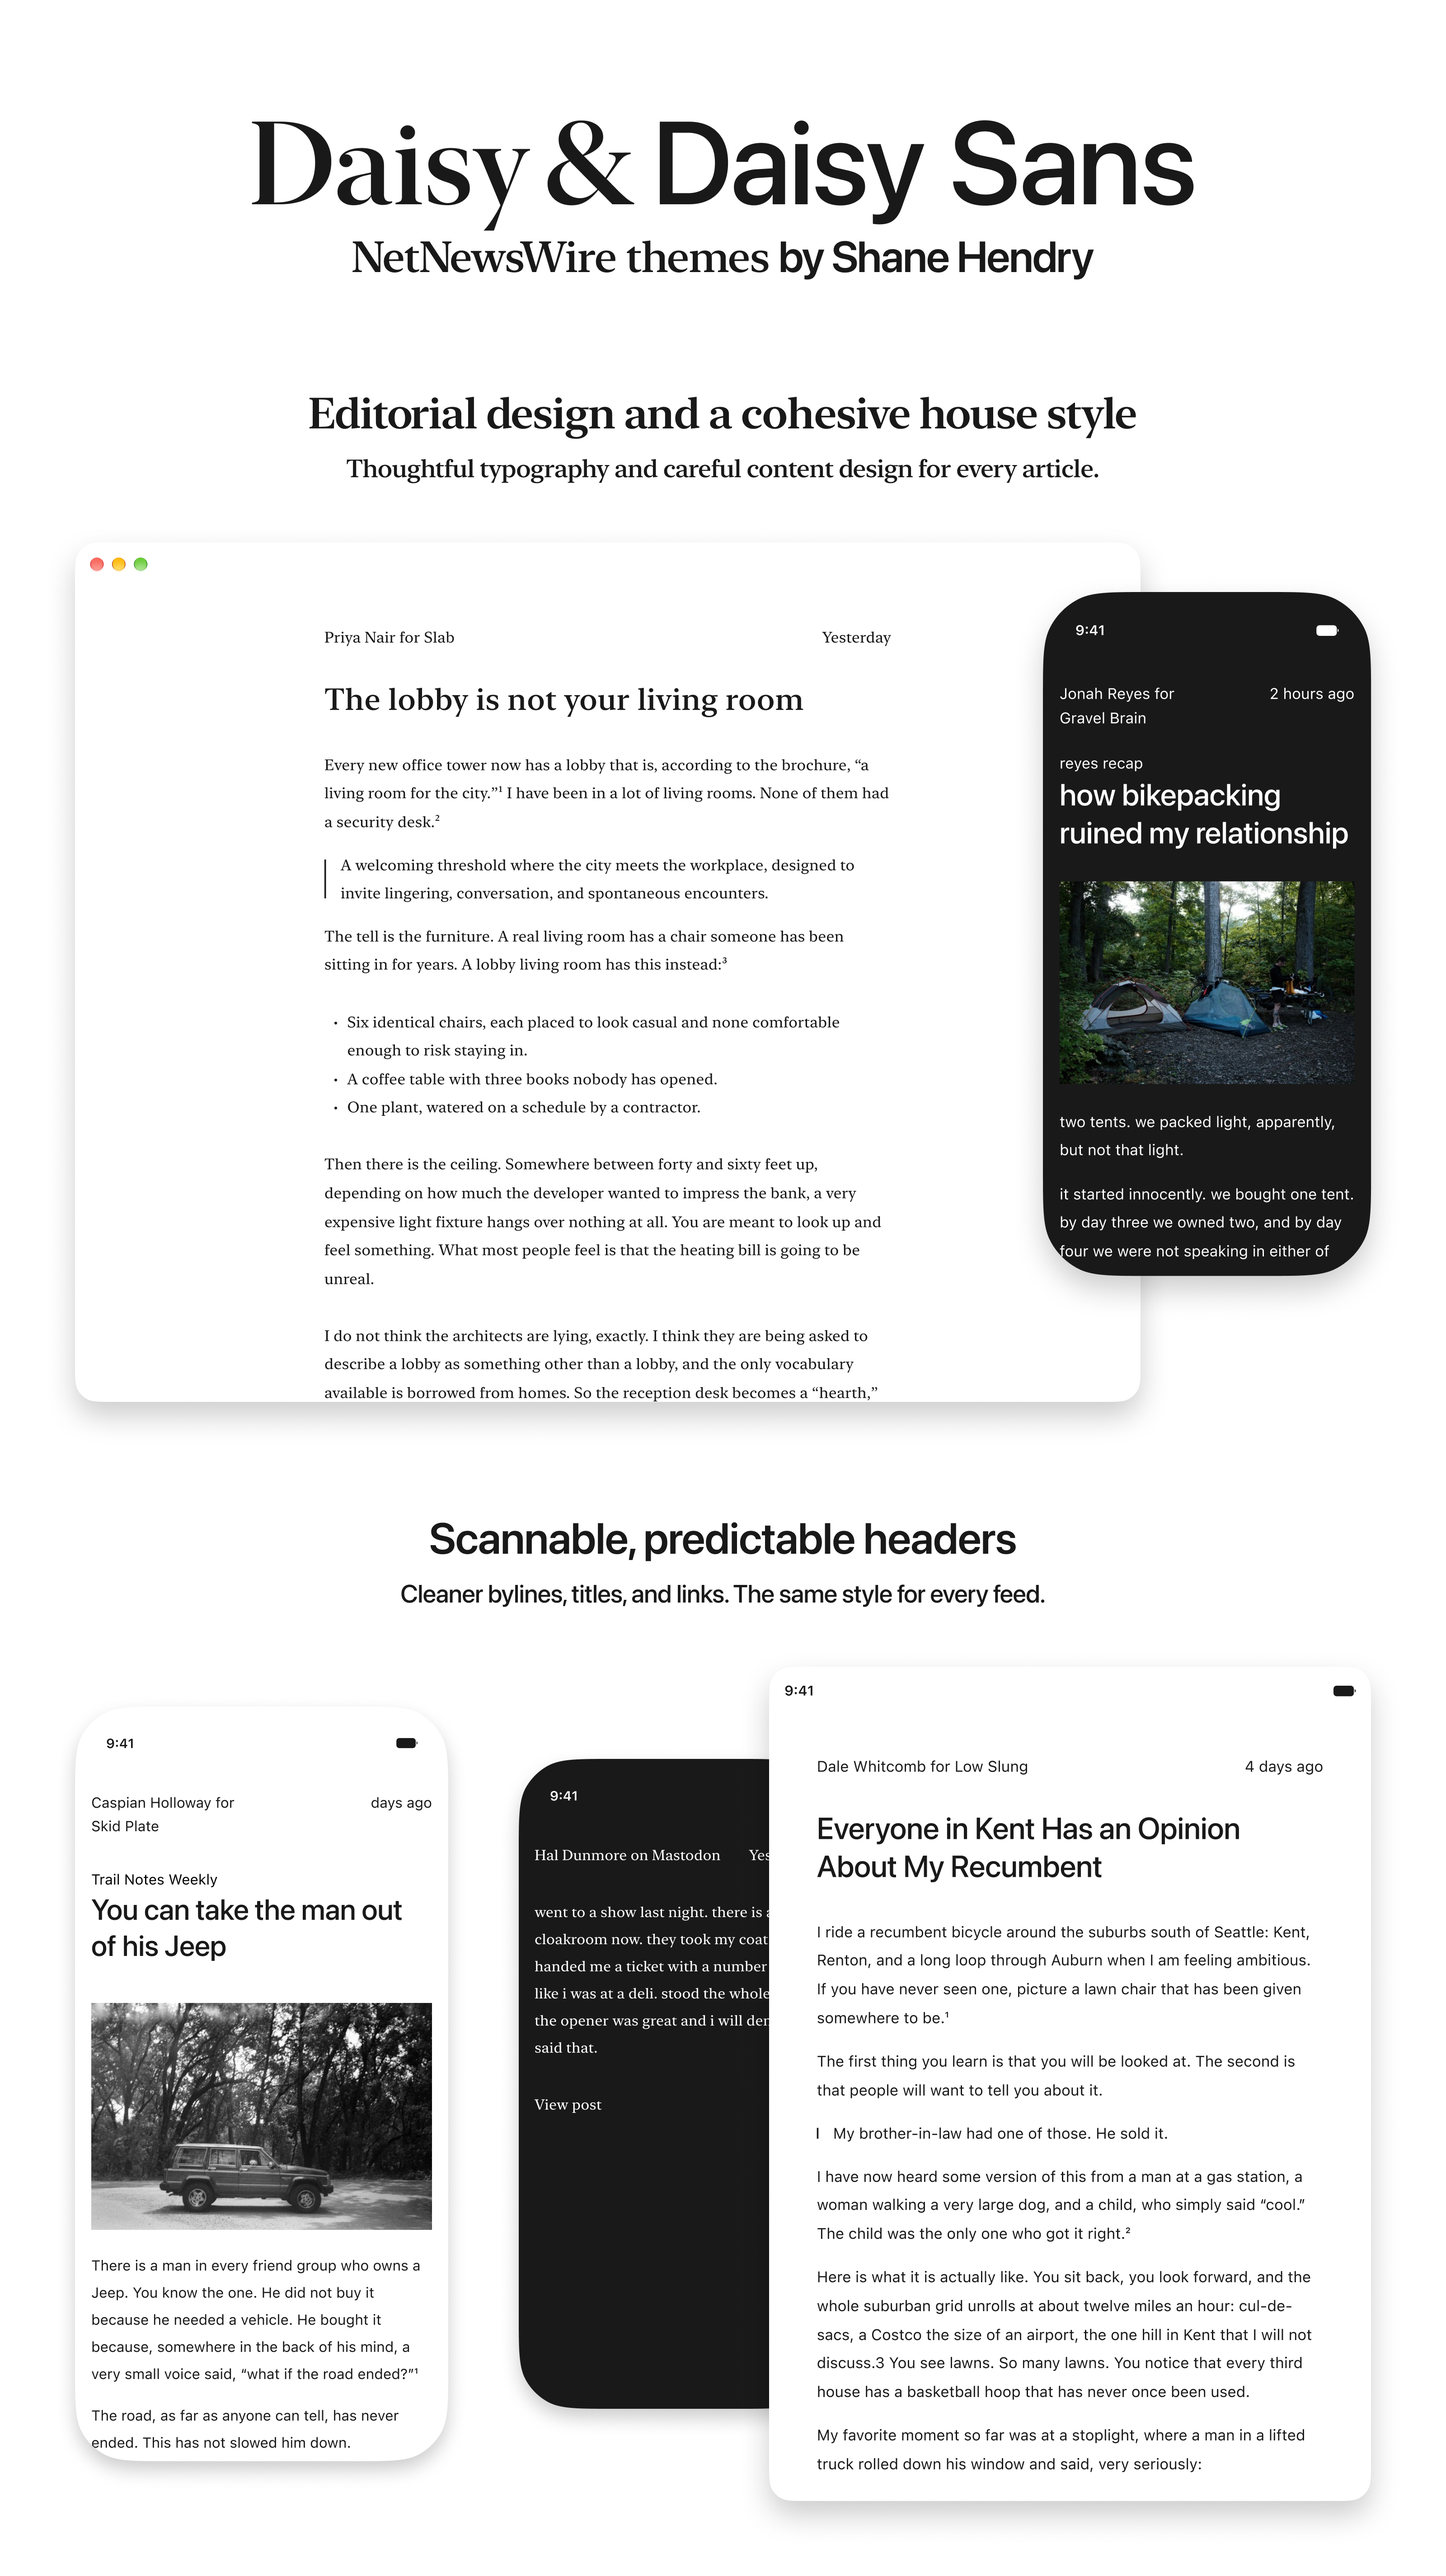
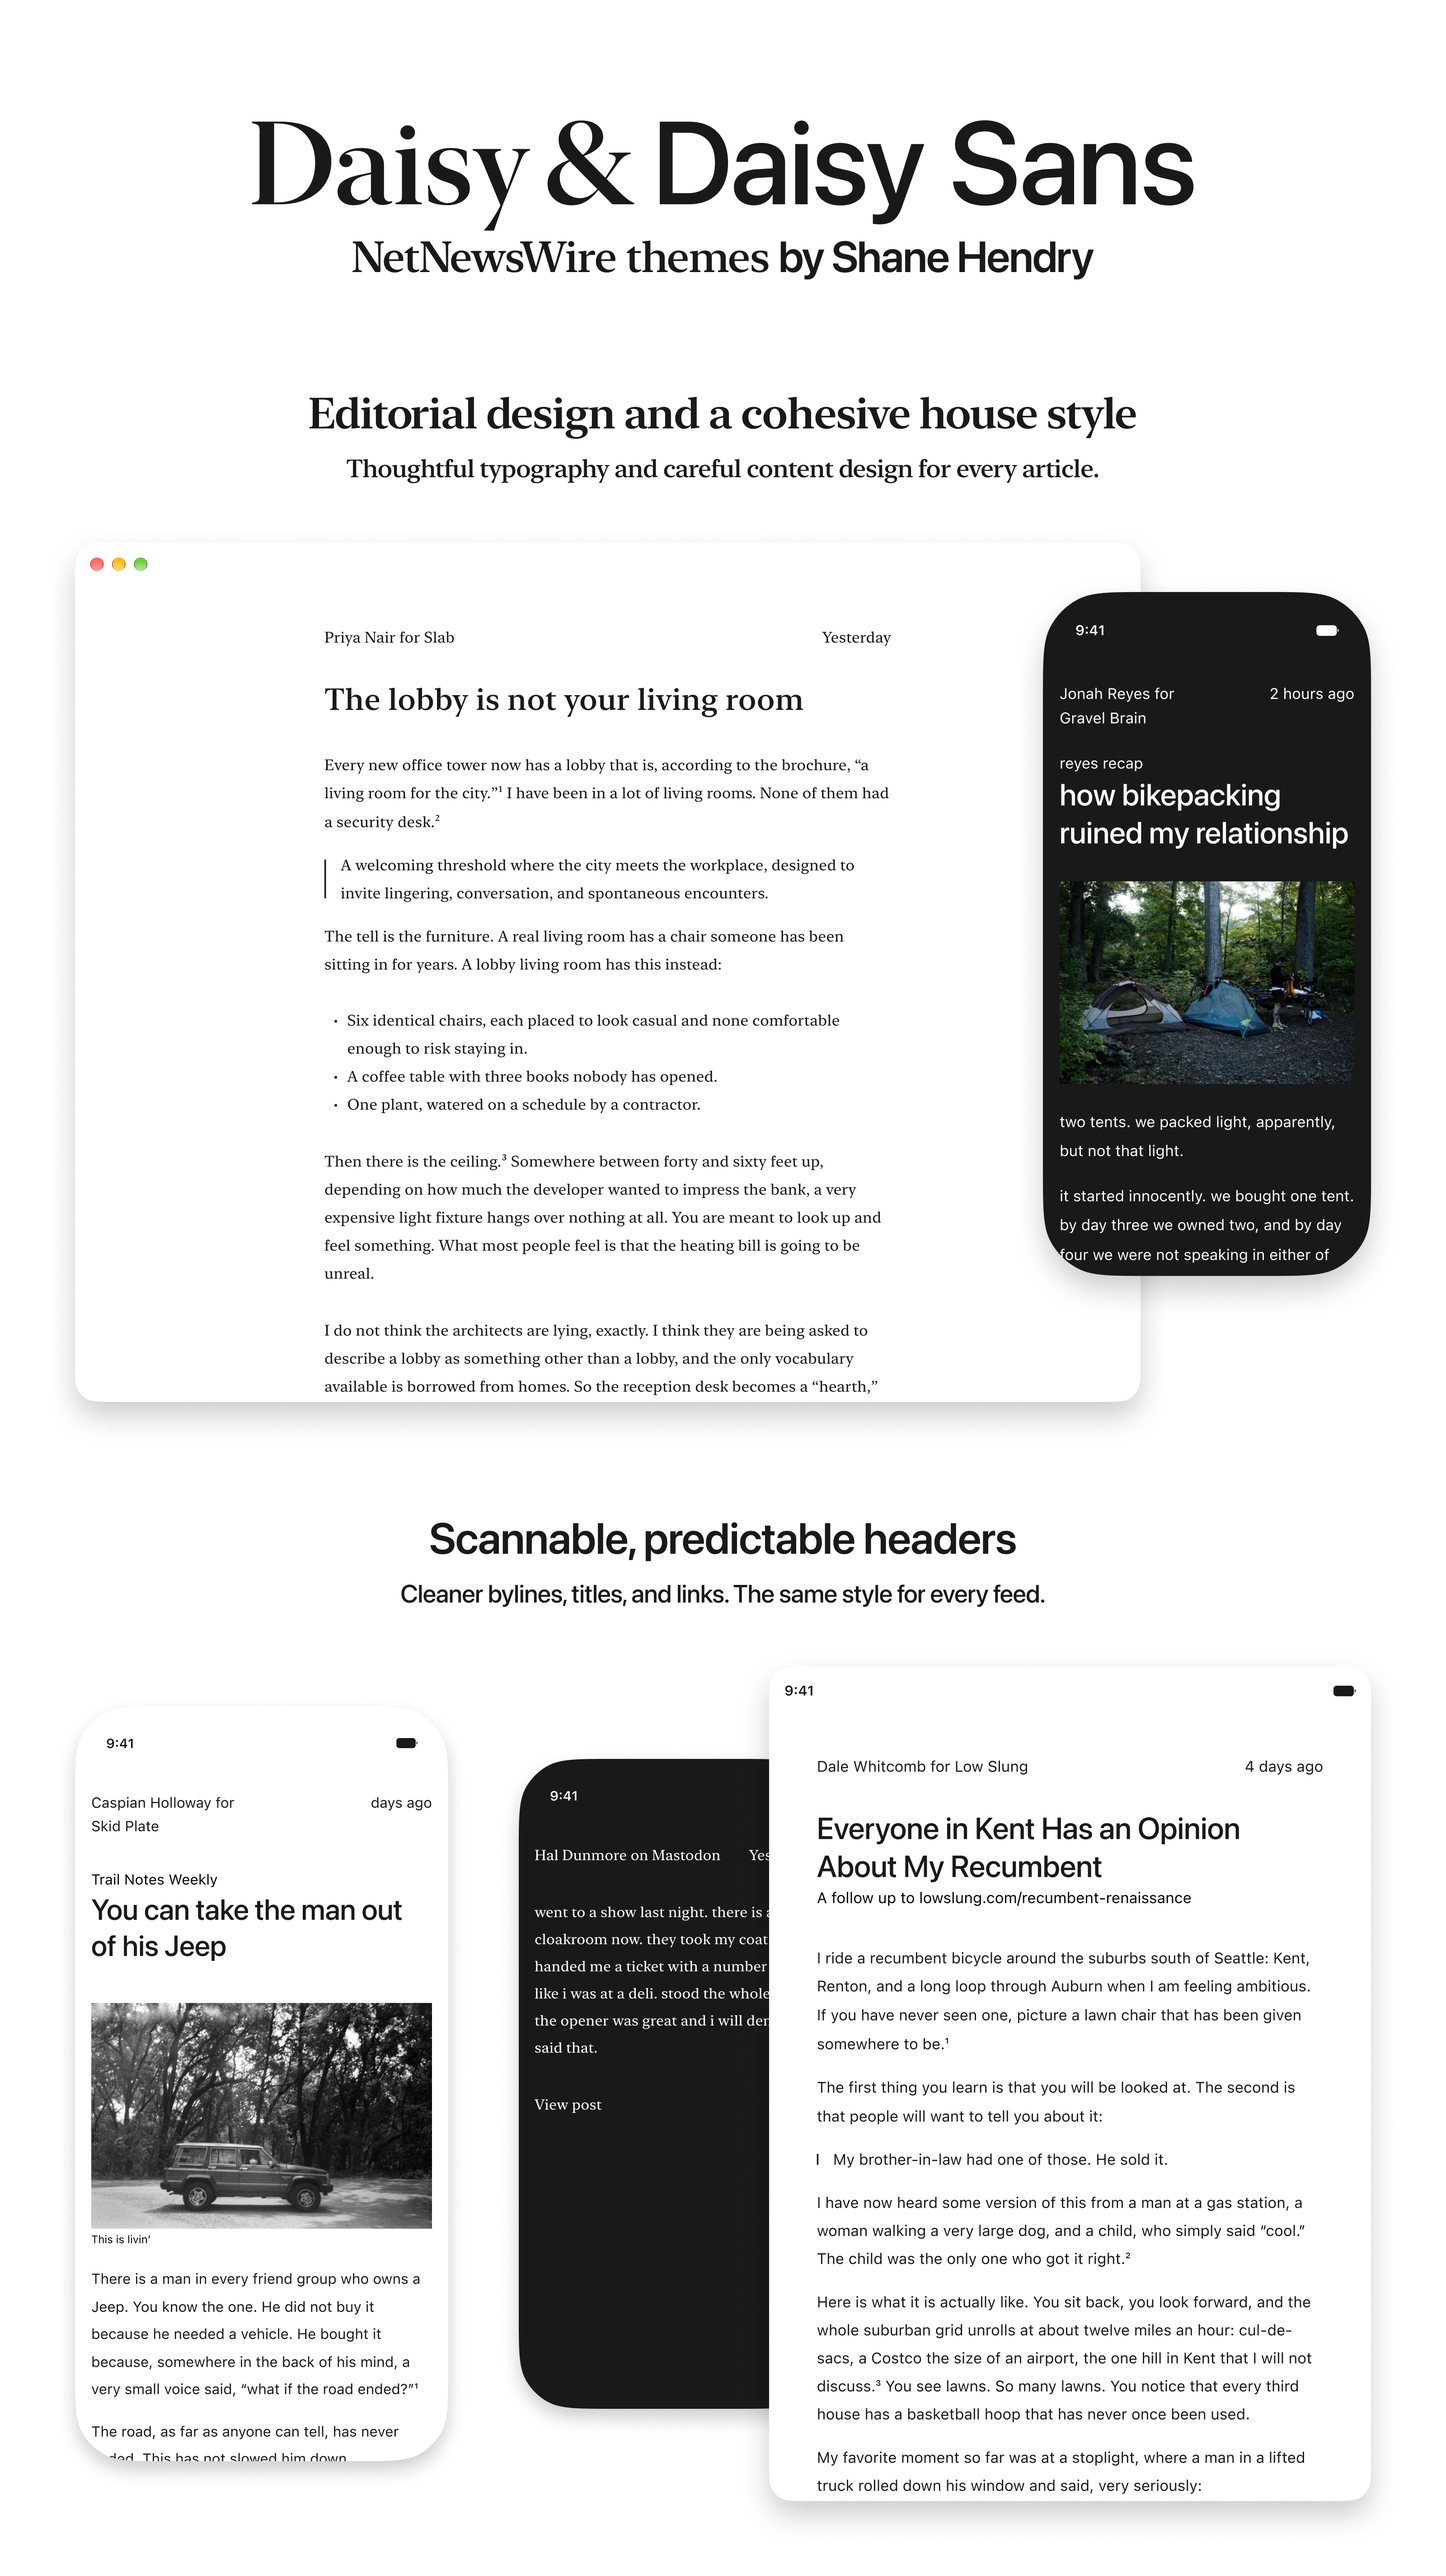
Add Lemmy credit and source-line rule, bump to Version 11

diff --git a/Daisy.nnwtheme/template.html b/Daisy.nnwtheme/template.html
@@ -1108,6 +1108,85 @@ Presentation:
         view.textContent = (daisy.words && daisy.words[11]) || "Join the conversation";
       }
     })();
+    // Lemmy and PieFed: the feed's body is "submitted by user to community / N points | N comments /
+    // address". The first line repeats the credit, so it goes; the credit shows just the user
+    // name (linked to the profile) before the feed's name; and the address moves to the link
+    // line under the title as "Source: address". Sample: fixtures/lemmy.toml.
+    (function () {
+      var body = document.querySelector(".articleBody");
+      if (!body || !/^\s*submitted by\s/i.test(body.textContent)) return;
+      var tally = null;
+      Array.prototype.some.call(body.querySelectorAll("a[href]"), function (a) {
+        if (!/^\d+\s+comments?$/i.test(a.textContent.trim())) return false;
+        tally = a;
+        return true;
+      });
+      if (!tally || !/\d+\s+points?\s*\|/i.test(body.textContent)) return;
+      // Drop a line: from its first node through the next <br>, or the whole element when
+      // nothing else shares it.
+      var dropLine = function (start) {
+        var parent = start.parentNode;
+        var nodes = [];
+        for (var n = start; n; n = n.nextSibling) {
+          nodes.push(n);
+          if (n.nodeName === "BR") break;
+        }
+        var rest = Array.prototype.some.call(parent.childNodes, function (n) {
+          return nodes.indexOf(n) < 0 && (n.nodeType === 1 || n.textContent.trim());
+        });
+        if (!rest && parent !== body) { parent.parentNode.removeChild(parent); return; }
+        nodes.forEach(function (n) { parent.removeChild(n); });
+      };
+      var walker = document.createTreeWalker(body, NodeFilter.SHOW_TEXT);
+      var first = walker.nextNode();
+      while (first && !/^\s*submitted by\s/i.test(first.data)) first = walker.nextNode();
+      if (!first) return;
+      // The address is the line with nothing but a link whose text is an address.
+      var source = null;
+      Array.prototype.some.call(body.querySelectorAll("a[href]"), function (a) {
+        if (a === tally || !/^https?:\/\/\S+$/i.test(a.textContent.trim())) return false;
+        source = a;
+        return true;
+      });
+      var address = source && source.getAttribute("href");
+      var sourceText = source && source.textContent.trim();
+      if (source) {
+        var after = source.nextSibling;
+        var line = source.previousSibling && source.previousSibling.nodeName === "BR" ? source.previousSibling : source;
+        if (line === source) { dropLine(source); }
+        else {
+          var holder = source.parentNode;
+          holder.removeChild(source);
+          holder.removeChild(line);
+        }
+      }
+      dropLine(first);
+      var credit = document.querySelector(".attribution");
+      var author = credit && credit.querySelector(".byline");
+      if (author) {
+        var profile = author.querySelector("a[href]");
+        var href = profile ? profile.getAttribute("href") : author.textContent.trim();
+        var name = null;
+        try { name = new URL(href).pathname.replace(/\/+$/, "").split("/").pop(); } catch (error) {}
+        if (name && /^https?:\/\//i.test(author.textContent.trim())) {
+          var link = document.createElement("a");
+          link.href = href;
+          link.textContent = decodeURIComponent(name);
+          author.textContent = "";
+          author.appendChild(link);
+        }
+      }
+      var row = document.querySelector(".article-header .external-link");
+      var anchor = row && row.querySelector("a");
+      var label = row && row.querySelector(".external-link-label");
+      var domain = row && row.querySelector(".external-link-url");
+      if (address && anchor && label && domain) {
+        anchor.setAttribute("href", address);
+        label.textContent = (daisy.words && daisy.words[6]) || "Source:";
+        domain.textContent = sourceText.replace(/^https?:\/\/(www\.)?/i, "").replace(/\/$/, "");
+        row.classList.remove("same-page");
+      }
+    })();
     // A feed that gives the author as "email (Name)" shows only the name. Smashing Magazine's
     // feed name, "Articles on Smashing Magazine — For Web Designers And Developers", also
     // shortens to "Smashing Magazine", and Le Monde's, "Le Monde.fr - Actualités et Infos en France et dans le monde",
